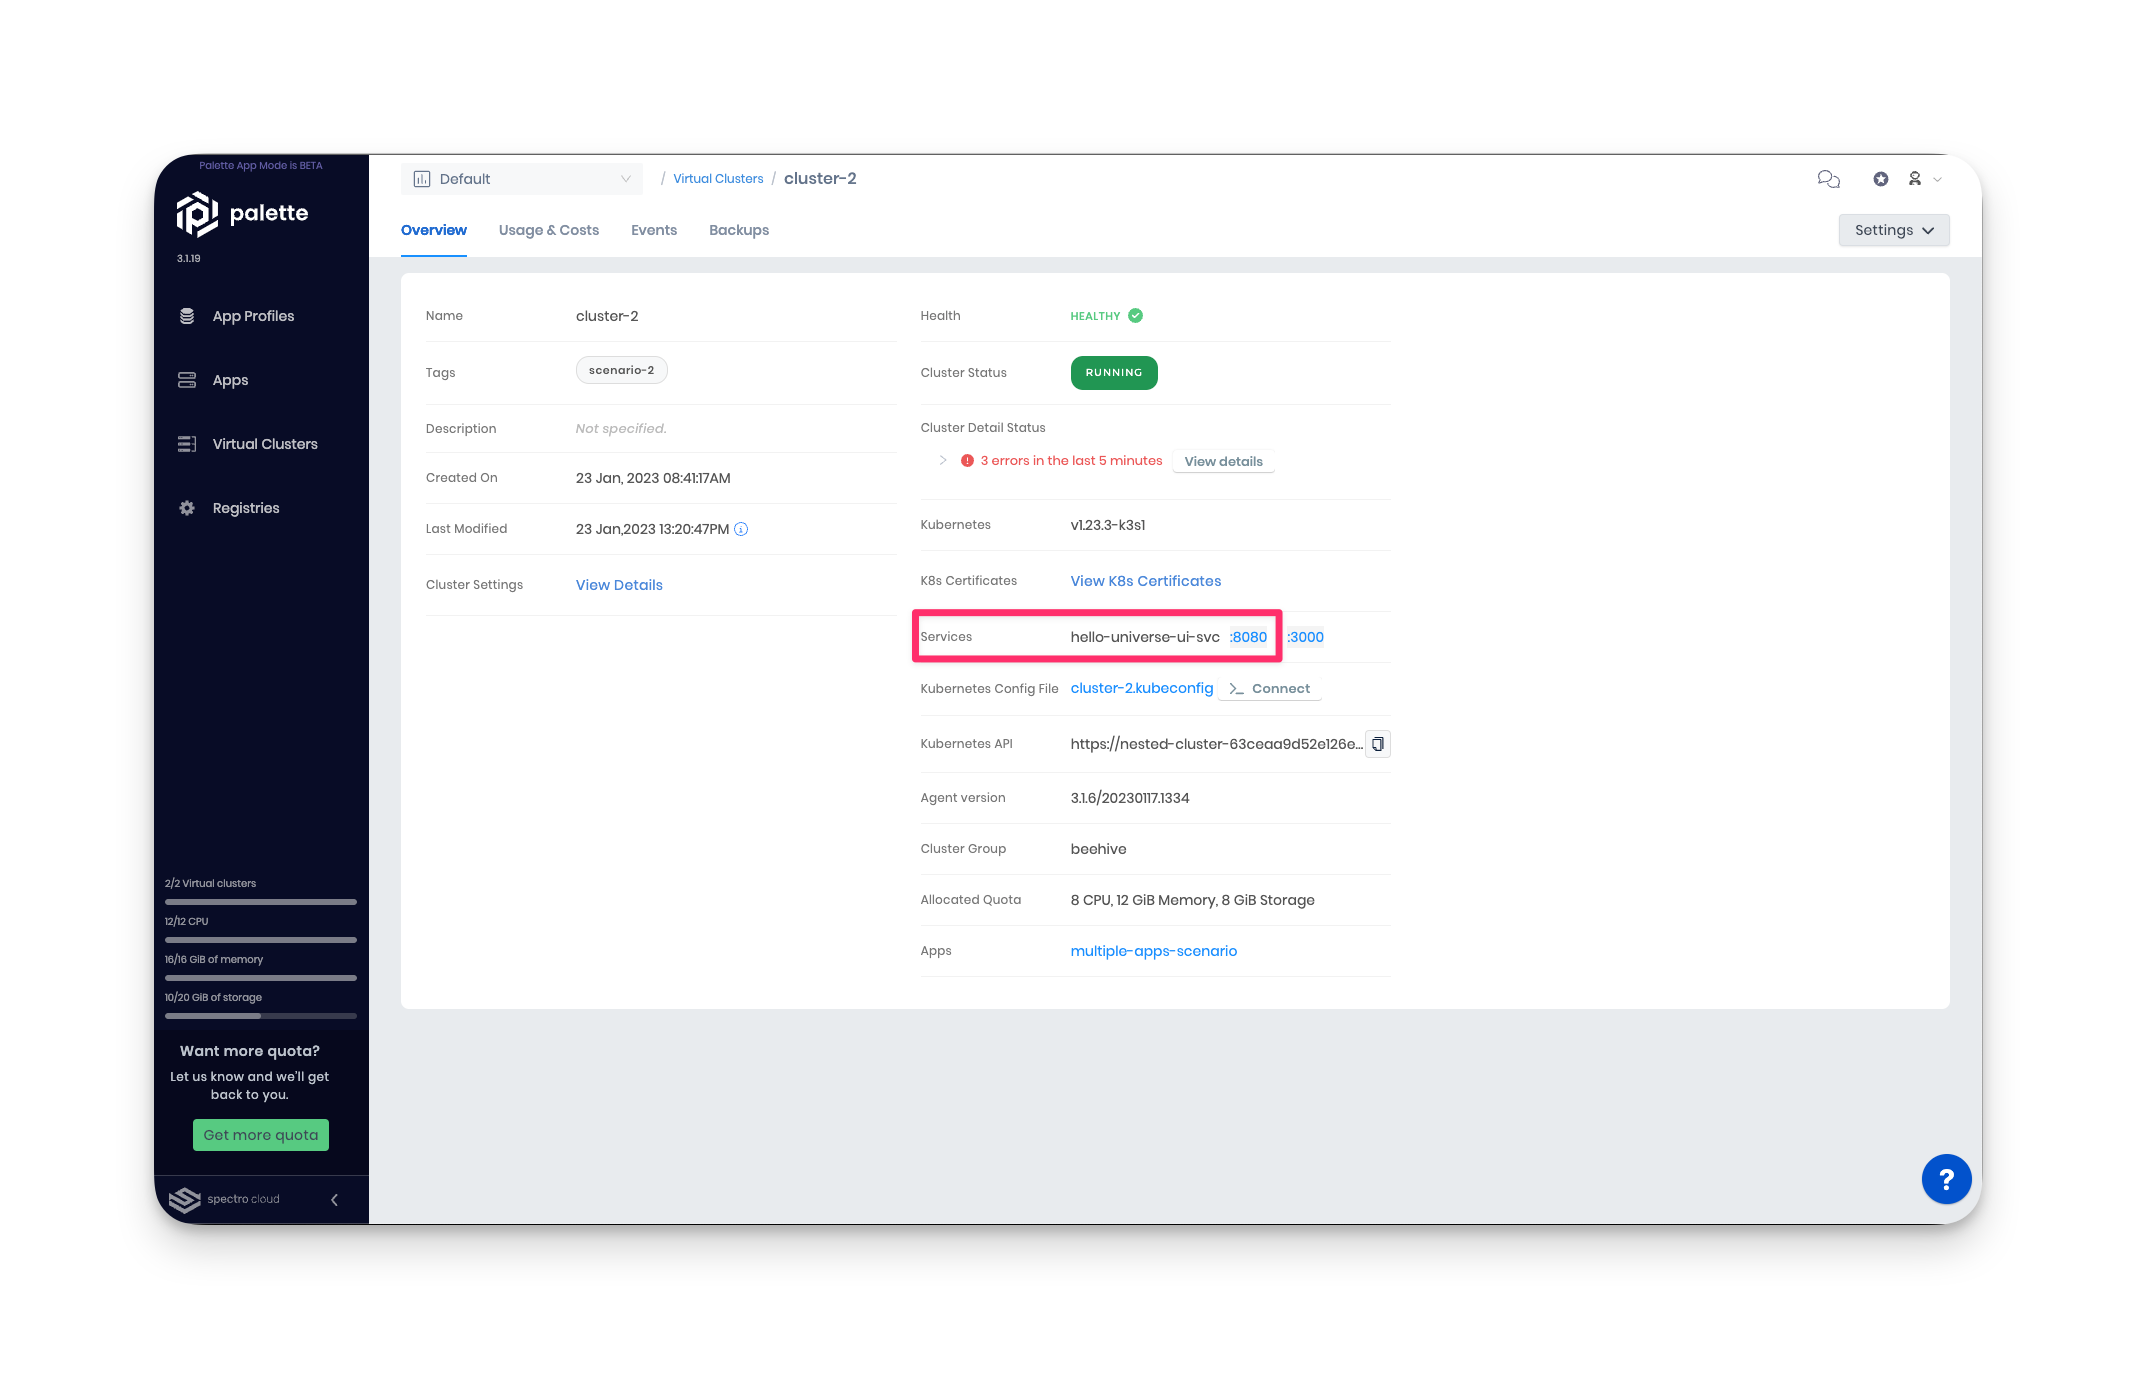
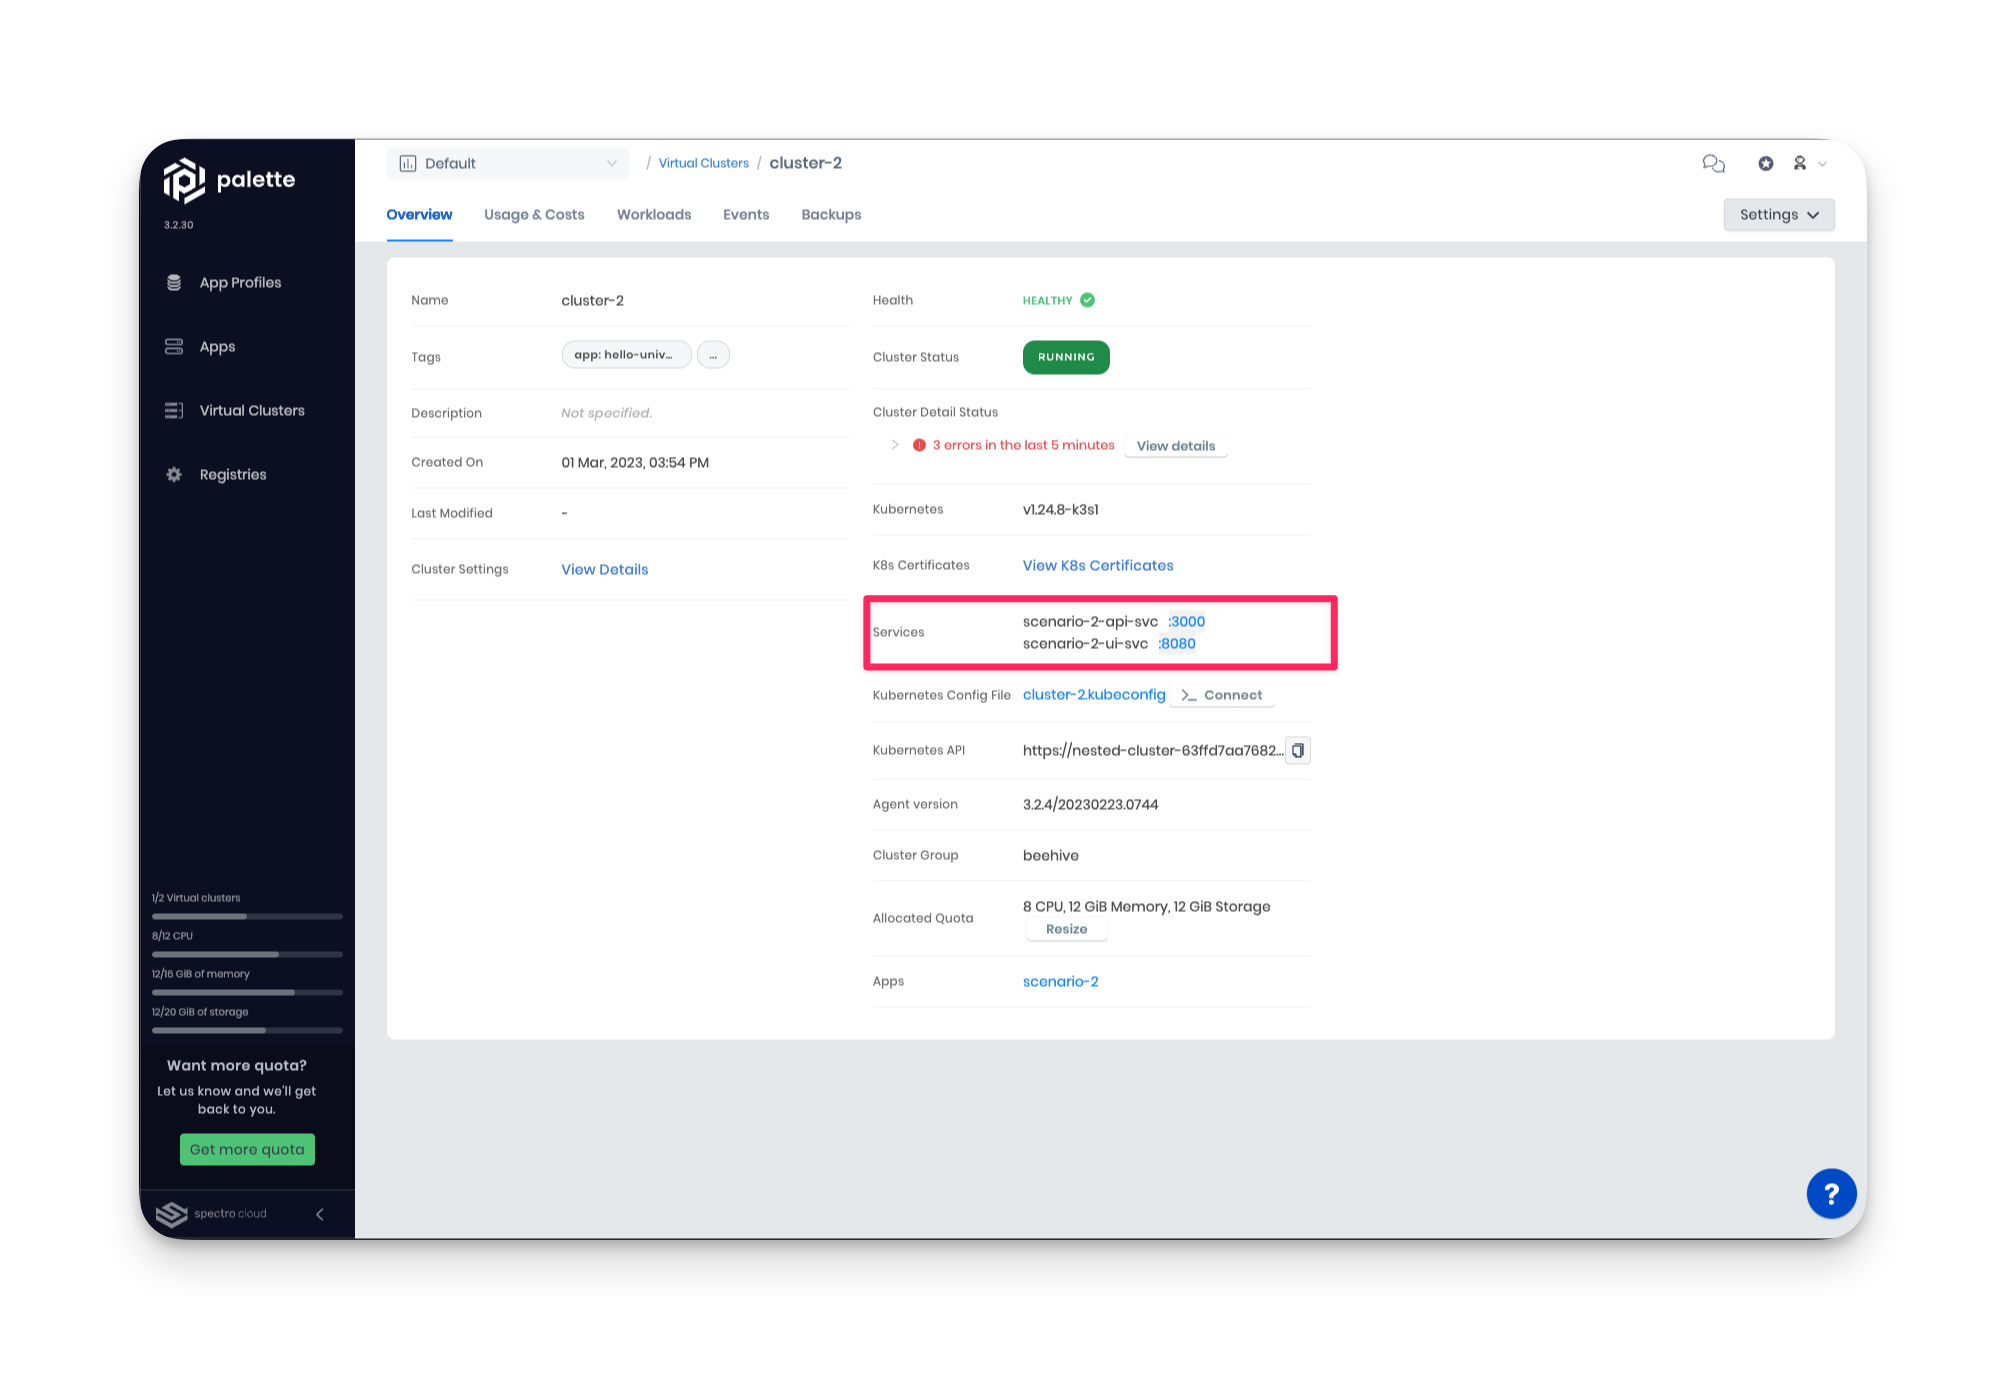
docs: updated images

diff --git a/content/docs/04.5-devx/06-apps/05-deploy-app.md b/content/docs/04.5-devx/06-apps/05-deploy-app.md
@@ -291,6 +291,14 @@ Assign the following environment variables to the API service:
 
 You can learn more about each environment variable's purpose by reviewing the API server's [documentation](https://github.com/spectrocloud/hello-universe-api#environment-variables). One variable that you should understand in greater detail is the `DB_HOST.` The value of this environment variable is constructed using the output variables the Postgres service exposed. The `{{.spectro.app.$appDeploymentName.postgres-db.POSTGRESMSTR_SVC}}` variable contains the Kubernetes DNS value of the Postgres service container.
 
+<br />
+
+<InfoBox>
+
+To learn more about connecting different service layers, refer to the [Service Connectivity](/devx/app-profile/services/connectivity) resource.
+
+</InfoBox>
+
   
 
 A virtual cluster is a Kubernetes environment, and because it’s a Kubernetes environment, you can use the [Kubernetes DNS](https://kubernetes.io/docs/concepts/services-networking/dns-pod-service/) record created for each service and pod. You will have another opportunity to practice this concept when you deploy the UI.
@@ -340,12 +348,14 @@ Assign the following environment variables to the UI service:
 
 If you want to explore the UI's environment variables in greater detail, you can review the UI's [documentation](https://github.com/spectrocloud/hello-universe). The `API_URI` contains the address of the application load balancer that will be deployed for the API service. 
 
+The output variable `{{.spectro.app.$appDeploymentName.api.CONTAINER_SVC_EXTERNALHOSTNAME}}` is used to retrieve the loadbalancer URL value.
+
 
 Click on the **Review** button at the bottom of the screen to finalize the app profile. Click on **Deploy New App** in the following screen to deploy the new app profile to cluster-2.
 
   
 
-Name the app “multiple-app-scenario,” select the app profile **hello-universe-complete**, pick version **1.0.0** and toggle the radio button **Deploy In An Existing Palette Virtual Cluster**. Select **cluster-2** and click on **Create App**
+Name the app `multiple-app-scenario`, select the app profile **hello-universe-complete**, pick version **1.0.0** and toggle the radio button **Deploy In An Existing Palette Virtual Cluster**. Select **cluster-2** and click on **Create App**
  
 
 <br />
@@ -870,64 +880,86 @@ resource "spectrocloud_application_profile" "hello-universe-complete" {
     registry_uid    = data.spectrocloud_registry.public_registry.id
     source_app_tier = data.spectrocloud_pack_simple.container_pack.id
     values          = <<-EOT
-        pack:
-          namespace: "{{.spectro.system.appdeployment.tiername}}-ns"
-          releaseNameOverride: "{{.spectro.system.appdeployment.tiername}}"
-        postReadinessHooks:
-          outputParameters:
-            - name: CONTAINER_NAMESPACE
-              type: lookupSecret
-              spec:
-                namespace: "{{.spectro.system.appdeployment.tiername}}-ns"
-                secretName: "{{.spectro.system.appdeployment.tiername}}-custom-secret"
-                ownerReference:
-                  apiVersion: v1
-                  kind: Service
-                  name: "{{.spectro.system.appdeployment.tiername}}-svc"
-                keyToCheck: metadata.namespace
-            - name: CONTAINER_SVC
-              type: lookupSecret
-              spec:
-                namespace: "{{.spectro.system.appdeployment.tiername}}-ns"
-                secretName: "{{.spectro.system.appdeployment.tiername}}-custom-secret"
-                ownerReference:
-                  apiVersion: v1
-                  kind: Service
-                  name: "{{.spectro.system.appdeployment.tiername}}-svc"
-                keyToCheck: metadata.annotations["spectrocloud.com/service-fqdn"]
-            - name: CONTAINER_SVC_PORT
-              type: lookupSecret
-              spec:
-                namespace: "{{.spectro.system.appdeployment.tiername}}-ns"
-                secretName: "{{.spectro.system.appdeployment.tiername}}-custom-secret"
-                ownerReference:
-                  apiVersion: v1
-                  kind: Service
-                  name: "{{.spectro.system.appdeployment.tiername}}-svc"
-                keyToCheck: spec.ports[0].port
-        containerService:
-            serviceName: "{{.spectro.system.appdeployment.tiername}}-svc"
-            registryUrl: ""
-            image: ${var.multiple_container_images["api"]}
-            access: public
-            ports:
-              - "3000"
-            env:
-              - name: "DB_HOST"
-                value: "{{.spectro.app.$appDeploymentName.postgres-db.POSTGRESMSTR_SVC}}"
-              - name: "DB_USER"
-                value: "{{.spectro.app.$appDeploymentName.postgres-db.USERNAME}}"
-              - name: "DB_PASSWORD"
-                value: "{{.spectro.app.$appDeploymentName.postgres-db.PASSWORD}}"
-              - name: "DB_NAME"
-                value: "${var.database-name}"
-              - name: "DB_INIT"
-                value: "true"
-              - name: "DB_ENCRYPTION"
-                value: "${var.database-ssl-mode}"
-              - name: "AUTHORIZATION"
-                value: "true"
-            serviceType: LoadBalancer
+pack:
+  namespace: "{{.spectro.system.appdeployment.tiername}}-ns"
+  releaseNameOverride: "{{.spectro.system.appdeployment.tiername}}"
+postReadinessHooks:
+  outputParameters:
+  - name: CONTAINER_NAMESPACE
+    type: lookupSecret
+    spec:
+      namespace: "{{.spectro.system.appdeployment.tiername}}-ns"
+      secretName: "{{.spectro.system.appdeployment.tiername}}-custom-secret"
+      ownerReference:
+        apiVersion: v1
+        kind: Service
+        name: "{{.spectro.system.appdeployment.tiername}}-svc"
+      keyToCheck: metadata.namespace
+  - name: CONTAINER_SVC
+    type: lookupSecret
+    spec:
+      namespace: "{{.spectro.system.appdeployment.tiername}}-ns"
+      secretName: "{{.spectro.system.appdeployment.tiername}}-custom-secret"
+      ownerReference:
+        apiVersion: v1
+        kind: Service
+        name: "{{.spectro.system.appdeployment.tiername}}-svc"
+      keyToCheck: metadata.annotations["spectrocloud.com/service-fqdn"]
+  - name: CONTAINER_SVC_EXTERNALHOSTNAME
+    type: lookupSecret
+    spec:
+      namespace: "{{.spectro.system.appdeployment.tiername}}-ns"
+      secretName: "{{.spectro.system.appdeployment.tiername}}-custom-secret"
+      ownerReference:
+        apiVersion: v1
+        kind: Service
+        name: "{{.spectro.system.appdeployment.tiername}}-svc"
+      keyToCheck: status.loadBalancer.ingress[0].hostname
+      conditional: true
+  - name: CONTAINER_SVC_EXTERNALIP
+    type: lookupSecret
+    spec:
+      namespace: "{{.spectro.system.appdeployment.tiername}}-ns"
+      secretName: "{{.spectro.system.appdeployment.tiername}}-custom-secret"
+      ownerReference:
+        apiVersion: v1
+        kind: Service
+        name: "{{.spectro.system.appdeployment.tiername}}-svc"
+      keyToCheck: status.loadBalancer.ingress[0].ip
+      conditional: true
+  - name: CONTAINER_SVC_PORT
+    type: lookupSecret
+    spec:
+      namespace: "{{.spectro.system.appdeployment.tiername}}-ns"
+      secretName: "{{.spectro.system.appdeployment.tiername}}-custom-secret"
+      ownerReference:
+        apiVersion: v1
+        kind: Service
+        name: "{{.spectro.system.appdeployment.tiername}}-svc"
+      keyToCheck: spec.ports[0].port
+containerService:
+  serviceName: "{{.spectro.system.appdeployment.tiername}}-svc"
+  registryUrl: ""
+  image: ${var.multiple_container_images["api"]}
+  access: public
+  ports:
+    - "3000"
+  serviceType: LoadBalancer
+  env:
+    - name: DB_HOST
+      value: "{{.spectro.app.$appDeploymentName.postgres-db.POSTGRESMSTR_SVC}}"
+    - name: DB_USER
+      value: "{{.spectro.app.$appDeploymentName.postgres-db.USERNAME}}"
+    - name: DB_PASSWORD
+      value: "{{.spectro.app.$appDeploymentName.postgres-db.PASSWORD}}"
+    - name: DB_NAME
+      value: counter
+    - name: DB_INIT
+      value: "true"
+    - name: DB_ENCRYPTION
+      value: "${var.database-ssl-mode}"
+    - name: AUTHORIZATION
+      value: "true"
     EOT
   }
   pack {
@@ -994,18 +1026,18 @@ resource "spectrocloud_application_profile" "hello-universe-complete" {
                   name: "{{.spectro.system.appdeployment.tiername}}-svc"
                 keyToCheck: spec.ports[0].port
         containerService:
-            serviceName: "{{.spectro.system.appdeployment.tiername}}-svc"
-            registryUrl: ""
-            image: ${var.multiple_container_images["ui"]}
-            access: public
-            ports:
-              - "8080"
-            env:
-              - name: "API_URI"
-                value: "http://{{.spectro.app.$appDeploymentName.api.CONTAINER_SVC_EXTERNALHOSTNAME}}:3000"
-              - name: "TOKEN"
-                value: "${var.token}"
-            serviceType: LoadBalancer
+          serviceName: "{{.spectro.system.appdeployment.tiername}}-svc"
+          registryUrl: ""
+          image: ${var.multiple_container_images["ui"]}
+          access: public
+          ports:
+            - "8080"
+          env:
+            - name: "API_URI"
+              value: "http://{{.spectro.app.$appDeploymentName.api.CONTAINER_SVC_EXTERNALHOSTNAME}}:3000"
+            - name: "TOKEN"
+              value: "${var.token}"
+          serviceType: LoadBalancer
     EOT   
   }
   tags = concat(var.tags, ["scenario-2"])
@@ -1052,37 +1084,42 @@ The `env` section uses the output variables exposed by the Postgres service. Oth
 <br />
 
 ```
-  pack {
+pack {
     name            = "api"
     type            = data.spectrocloud_pack_simple.container_pack.type
     registry_uid    = data.spectrocloud_registry.public_registry.id
     source_app_tier = data.spectrocloud_pack_simple.container_pack.id
     values          = <<-EOT
-        # ....
-        # ....
-        containerService:
-            serviceName: "{{.spectro.system.appdeployment.tiername}}-svc"
-            registryUrl: ""
-            image: ${var.multiple_container_images["api"]}
-            access: public
-            ports:
-              - "3000"
-            env:
-              - name: "DB_HOST"
-                value: "{{.spectro.app.$appDeploymentName.postgres-db.POSTGRESMSTR_SVC}}"
-              - name: "DB_USER"
-                value: "{{.spectro.app.$appDeploymentName.postgres-db.USERNAME}}"
-              - name: "DB_PASSWORD"
-                value: "{{.spectro.app.$appDeploymentName.postgres-db.PASSWORD}}"
-              - name: "DB_NAME"
-                value: "${var.database-name}"
-              - name: "DB_INIT"
-                value: "true"
-              - name: "DB_ENCRYPTION"
-                value: "${var.database-ssl-mode}"
-              - name: "AUTHORIZATION"
-                value: "true"
-            serviceType: LoadBalancer
+pack:
+  namespace: "{{.spectro.system.appdeployment.tiername}}-ns"
+  releaseNameOverride: "{{.spectro.system.appdeployment.tiername}}"
+postReadinessHooks:
+  outputParameters:
+  #....
+  #...
+containerService:
+  serviceName: "{{.spectro.system.appdeployment.tiername}}-svc"
+  registryUrl: ""
+  image: ${var.multiple_container_images["api"]}
+  access: public
+  ports:
+    - "3000"
+  serviceType: LoadBalancer
+  env:
+    - name: DB_HOST
+      value: "{{.spectro.app.$appDeploymentName.postgres-db.POSTGRESMSTR_SVC}}"
+    - name: DB_USER
+      value: "{{.spectro.app.$appDeploymentName.postgres-db.USERNAME}}"
+    - name: DB_PASSWORD
+      value: "{{.spectro.app.$appDeploymentName.postgres-db.PASSWORD}}"
+    - name: DB_NAME
+      value: counter
+    - name: DB_INIT
+      value: "true"
+    - name: DB_ENCRYPTION
+      value: "${var.database-ssl-mode}"
+    - name: AUTHORIZATION
+      value: "true"
     EOT
   }
 ```
@@ -1107,7 +1144,6 @@ pack {
             access: public
             ports:
               - "8080"
-              - "3000"
             env:
               - name: "API_URI"
                 value: "http://{{.spectro.app.$appDeploymentName.api.CONTAINER_SVC_EXTERNALHOSTNAME}}:3000"
